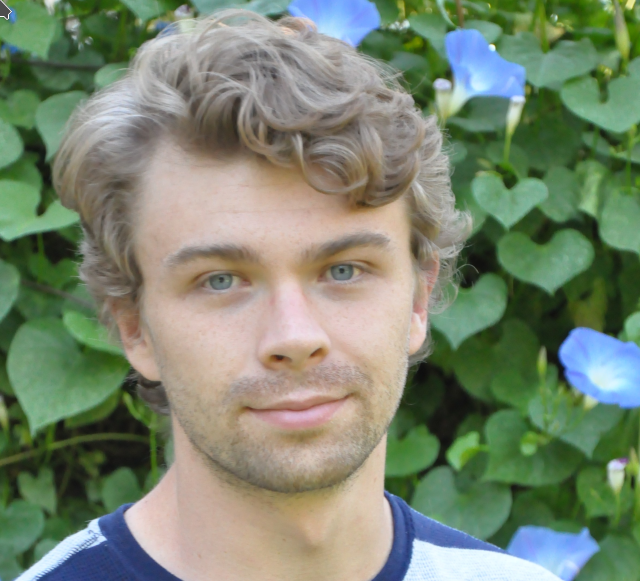
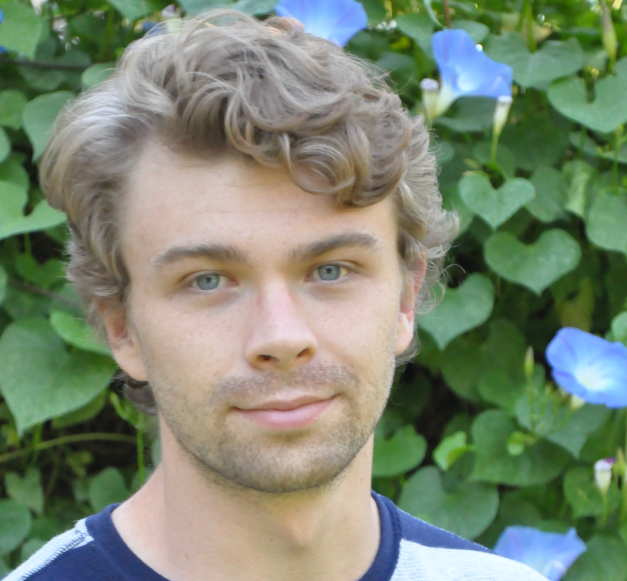
Larger photo that opens at full size; trim a mouse pointer off the photo's corner
The Profile photo scales with its box (about twice the old size, three
times in a wide box) and is no longer cropped square. A click opens it at
its real size in a viewer; Esc, the backdrop or the photo closes it. The
photo is a link to the file, so a new tab or no JavaScript still works.

diff --git a/css/site.css b/css/site.css
@@ -282,15 +282,47 @@ body.gs-has-fs { overflow: hidden; }
 .gs-sub-label { display: flex; align-items: center; gap: 6px; margin-bottom: 4px; font-size: 10.5px; font-weight: 700; letter-spacing: .6px; text-transform: uppercase; color: var(--faint); }
 .gs-sub-title { margin: 0 0 3px; font-weight: 650; font-size: 13.5px; color: var(--heading); }
 
-/* the profile's head: photo, name, role */
-.gs-id { display: flex; align-items: center; gap: 14px; padding: 12px; border-bottom: 1px solid var(--border); }
+/* the profile: the photo beside the name with the facts below; in a wide box the facts move up beside the photo */
+.gs-profile-box { container-type: inline-size; }
+.gs-profile { display: grid; grid-template-columns: auto minmax(0, 1fr); grid-template-areas: "photo id" "facts facts"; align-content: start; }
+.gs-profile > .ui-facts { grid-area: facts; border-top: 1px solid var(--border); }
+.gs-id { grid-area: id; align-self: center; min-width: 0; padding: 12px 12px 12px 16px; }
 .gs-photo {
-  width: 84px; height: 84px; flex: none; display: block; object-fit: cover; object-position: 50% 28%;
-  border: 1px solid var(--border-strong); border-radius: var(--radius); background: var(--bg2);
+  grid-area: photo; position: relative; display: block; width: clamp(112px, 42cqi, 200px); margin: 12px 0 12px 12px;
+  border: 1px solid var(--border-strong); border-radius: var(--radius); background: var(--bg2); overflow: hidden; cursor: zoom-in;
+}
+.gs-photo img { display: block; width: 100%; height: auto; }
+.gs-photo:hover { border-color: var(--accent); }
+.gs-photo-zoom {
+  position: absolute; right: 5px; bottom: 5px; display: grid; place-items: center; width: 24px; height: 24px;
+  border-radius: var(--radius); background: rgba(7, 8, 10, .72); color: #fff; opacity: 0; transition: opacity .12s;
+}
+.gs-photo:hover .gs-photo-zoom, .gs-photo:focus-visible .gs-photo-zoom { opacity: 1; }
+@media (hover: none) { .gs-photo-zoom { opacity: 1; } }
+.gs-photo-zoom svg { width: 15px; height: 15px; fill: none; stroke: currentColor; stroke-width: 2; stroke-linecap: round; }
+@container (min-width: 600px) {
+  .gs-profile { grid-template-areas: "photo id" "photo facts"; grid-template-rows: auto 1fr; }
+  .gs-photo { width: clamp(200px, 34cqi, 300px); align-self: start; }
+  .gs-id { align-self: end; padding-bottom: 4px; }
+  .gs-profile > .ui-facts { border-top: 0; padding-left: 16px; }
 }
 .gs-id-name { font-weight: 700; font-size: 15px; color: var(--heading); }
 .gs-id-sub { margin-top: 2px; font-size: 12.5px; color: var(--dim); }
 .gs-id-sub.is-mono { font-family: var(--mono); font-size: 11.5px; color: var(--faint); }
+
+/* the photo at full size, in a box over the page (a click or Esc closes it) */
+.gs-viewer {
+  padding: 0; border: 1px solid var(--border-strong); border-radius: var(--radius-lg); overflow: hidden;
+  max-width: calc(100vw - 24px); max-height: calc(100dvh - 24px);
+  background: var(--bg0); color: var(--text); box-shadow: var(--shadow);
+}
+.gs-viewer::backdrop { background: rgba(4, 5, 7, .8); }
+.gs-viewer-close { margin-left: auto; margin-right: -4px; }
+.gs-viewer-close svg { width: 14px; height: 14px; }
+.gs-viewer > img {
+  display: block; width: auto; height: auto; cursor: zoom-out;
+  max-width: calc(100vw - 26px); max-height: calc(100dvh - 26px - 33px);
+}
 
 .gs-link-line { margin-top: 10px; font-size: 12.5px; }
 .gs-link-line .is-mono { font-family: var(--mono); font-size: 11.5px; }
@@ -334,7 +366,7 @@ body.gs-has-fs { overflow: hidden; }
     --heading: #000; --text: #111; --dim: #444; --faint: #666;
     --accent: #1f5fbd; --accent-bright: #1f5fbd;
   }
-  .gs-top, .gs-side, .gs-scrim, .gs-foot, .gs-skip, .gs-fs-btn { display: none !important; }
+  .gs-top, .gs-side, .gs-scrim, .gs-foot, .gs-skip, .gs-fs-btn, .gs-photo-zoom, .gs-viewer { display: none !important; }
   .ui-box.is-emph, .ui-box.is-emph > .ui-box-head { animation: none; }
   .gs-shell { display: block; }
   .gs-main { padding: 0; }

diff --git a/index.html b/index.html
@@ -66,16 +66,17 @@
     </div>
 
     <div class="gs-grid">
-      <section class="ui-box" aria-labelledby="profile-title">
+      <section class="ui-box gs-profile-box" aria-labelledby="profile-title">
         <header class="ui-box-head"><h2 class="ui-box-title" id="profile-title">Profile</h2></header>
-        <div class="ui-box-body">
+        <div class="ui-box-body gs-profile">
+          <a class="gs-photo" href="assets/img/pfp.png" aria-label="Photo of George Strauch, view full size" title="View full size">
+            <img src="assets/img/pfp.png" alt="" width="627" height="581">
+            <span class="gs-photo-zoom" aria-hidden="true"><svg viewBox="0 0 24 24"><circle cx="10.5" cy="10.5" r="6.5"/><path d="M20 20l-4.8-4.8M10.5 7.5v6M7.5 10.5h6"/></svg></span>
+          </a>
           <div class="gs-id">
-            <img class="gs-photo" src="assets/img/pfp.png" alt="George Strauch" width="84" height="84">
-            <div>
-              <div class="gs-id-name">George E. Strauch V</div>
-              <div class="gs-id-sub">Software engineer</div>
-              <div class="gs-id-sub is-mono">Austin, TX</div>
-            </div>
+            <div class="gs-id-name">George E. Strauch V</div>
+            <div class="gs-id-sub">Software engineer</div>
+            <div class="gs-id-sub is-mono">Austin, TX</div>
           </div>
           <dl class="ui-facts">
             <div class="ui-fact"><dt>Employer</dt><dd>Charter Communications</dd></div>
@@ -233,5 +234,14 @@
     <span class="gs-clock" id="clock">0000-00-00 00:00:00 UTC</span>
   </footer>
 </div>
+
+<dialog class="gs-viewer" id="photo-viewer" aria-labelledby="photo-viewer-title">
+  <header class="ui-box-head">
+    <h2 class="ui-box-title" id="photo-viewer-title">Photo</h2>
+    <span class="ui-box-count">627 × 581</span>
+    <button type="button" class="ui-btn ghost xs icon gs-viewer-close" aria-label="Close" title="Close (Esc)"><svg viewBox="0 0 24 24" aria-hidden="true"><path d="M6 6l12 12M18 6L6 18"/></svg></button>
+  </header>
+  <img src="assets/img/pfp.png" alt="George Strauch" width="627" height="581">
+</dialog>
 </body>
 </html>

diff --git a/js/site.js b/js/site.js
@@ -1,6 +1,6 @@
-// The page's few behaviours: the theme menu, the phone drawer, full screen for any box, the side nav
-// following the scroll, the flash on the box a link jumps to, and the footer (the deployed commit and
-// a UTC clock).
+// The page's few behaviours: the theme menu, the phone drawer, full screen for any box, the photo at
+// full size, the side nav following the scroll, the flash on the box a link jumps to, and the footer
+// (the deployed commit and a UTC clock).
 (function () {
   "use strict";
 
@@ -129,7 +129,20 @@
     box.querySelector(".ui-box-head").appendChild(btn);
   });
 
+  // ---------------------------------------------------------------- the photo at full size
+  var viewer = document.getElementById("photo-viewer");
+  document.querySelector(".gs-photo").addEventListener("click", function (e) {
+    if (e.button !== 0 || e.ctrlKey || e.metaKey || e.shiftKey || e.altKey) return;   // a new tab gets the file
+    e.preventDefault();
+    viewer.showModal();
+  });
+  viewer.addEventListener("click", function (e) {
+    // the photo, the backdrop or the close button; not the rest of the head strip
+    if (!e.target.closest(".ui-box-head") || e.target.closest(".gs-viewer-close")) viewer.close();
+  });
+
   document.addEventListener("keydown", function (e) {
+    if (viewer.open) return;   // the viewer handles its own Esc
     if (e.key === "Escape") {
       if (!themeMenu.hidden) closeMenu(true);
       else if (fsBox) setFullScreen(fsBox, false);
